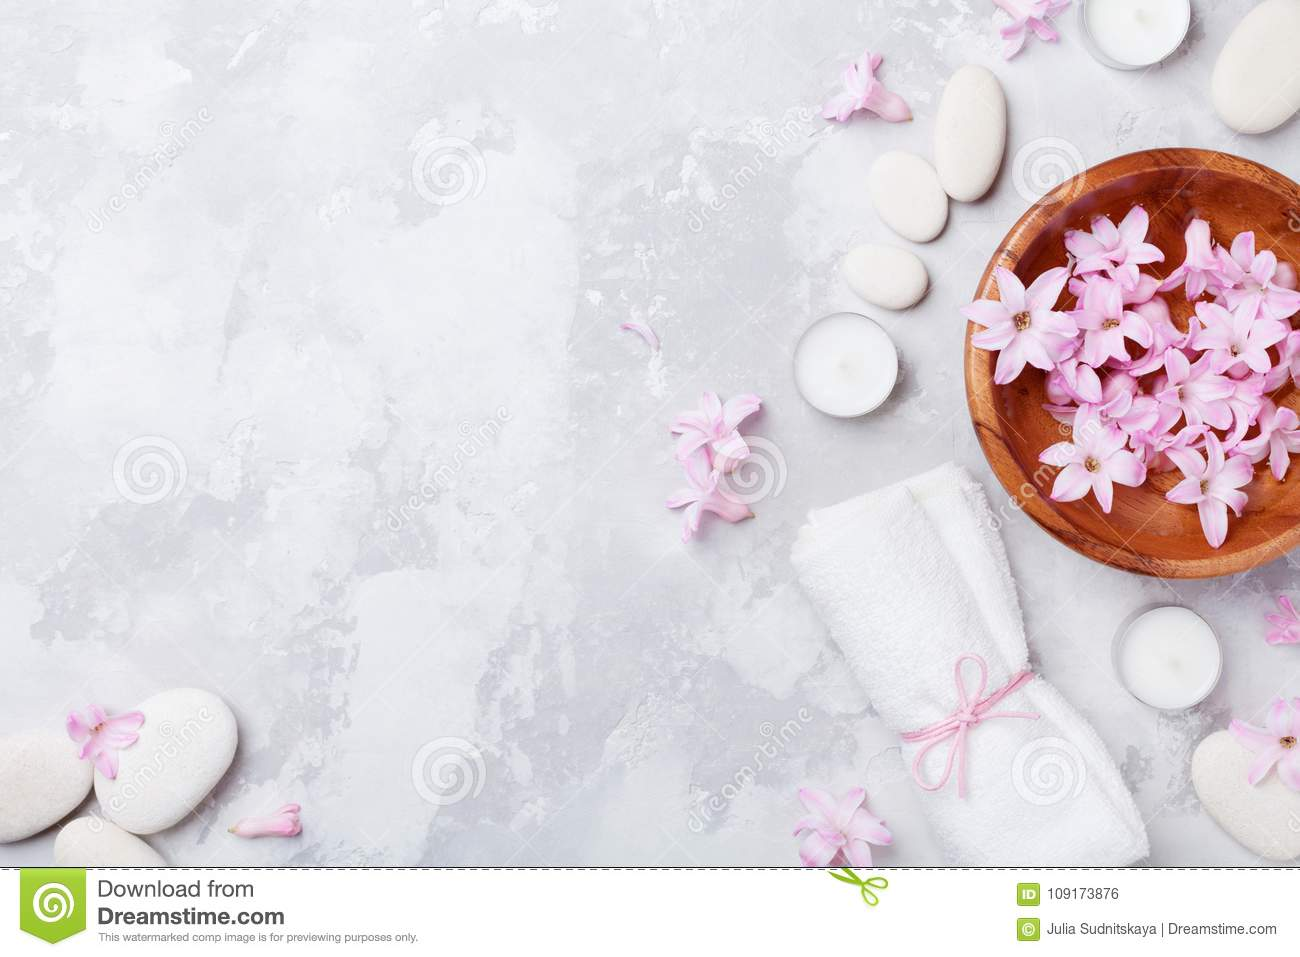
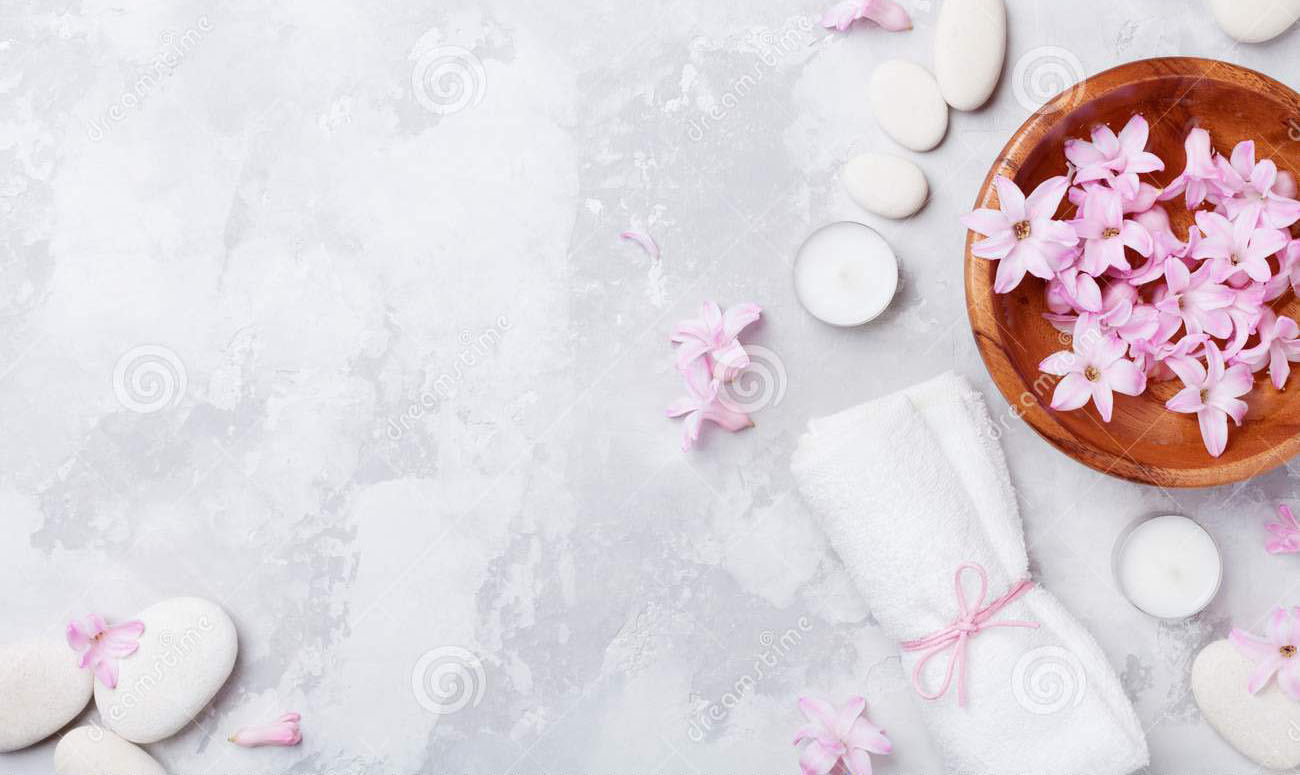
Fix background image overflow

diff --git a/style.css b/style.css
@@ -608,7 +608,7 @@ footer {
     margin-top: 0;
     background-image: url("images/spa2.jpg");
     background-repeat: no-repeat;
-    background-size: 100%;
+    background-size: cover;
   }
 
   .pink-section-about {
@@ -616,7 +616,7 @@ footer {
     margin-top: 0;
     background-image: url("images/spa.jpg");
     background-repeat: no-repeat;
-    background-size: 100%;
+    background-size: cover;
   }
 
   .header1 {
@@ -853,4 +853,14 @@ footer {
   .none {
     display: none;
   }
+}
+
+@media screen and (min-width: 1080px) {
+  .pink-section {
+    background-size: 100%;
+  }
+
+  .pink-section-about {
+    background-size: 100%;
+  } 
 }
